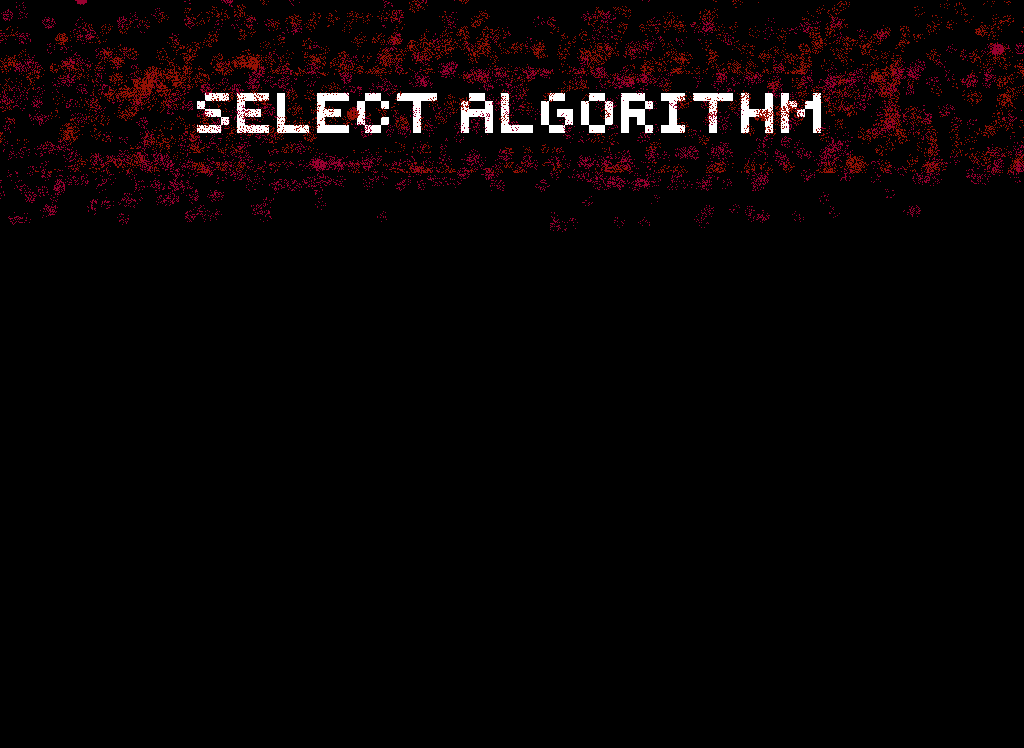
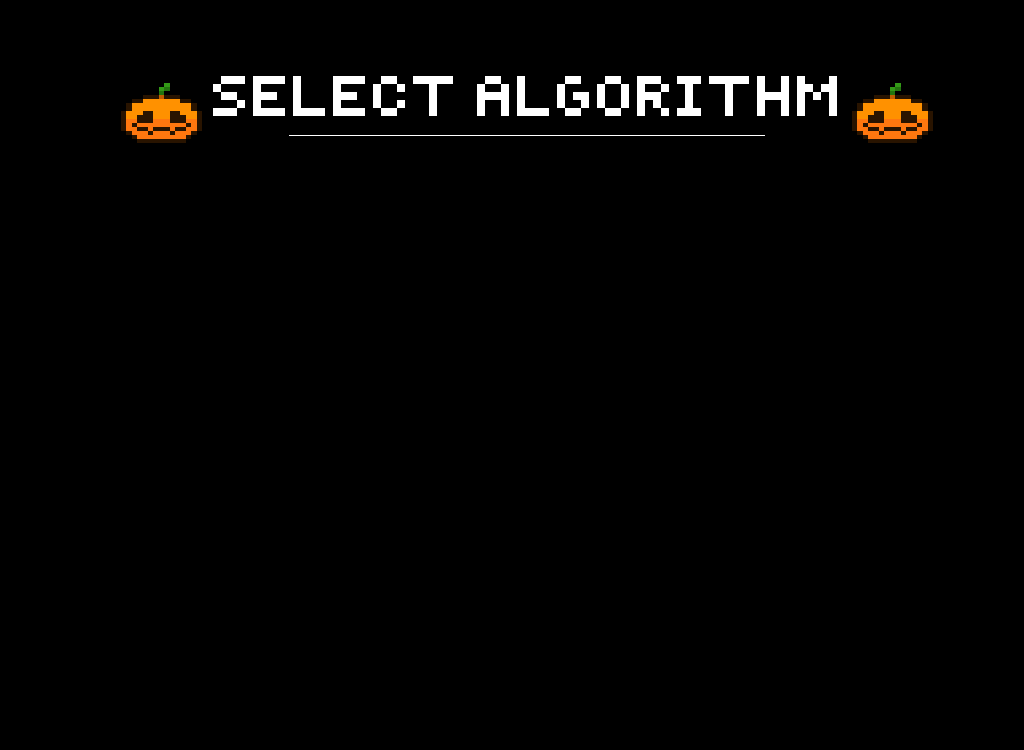
demo UI 3

Changed region(s): [[0.0, 0.0, 1.0, 0.2767], [0.2188, 0.0, 0.25, 0.0307]]

diff --git a/src/UI/maze_static.py b/src/UI/maze_static.py
@@ -34,6 +34,12 @@ def run_static_mode():
     MAZE_WIDTH = COLS * TILE_SIZE
     MAZE_HEIGHT = ROWS * TILE_SIZE
 
+    # Define maze positions
+    LEFT_MAZE_X = 30
+    LEFT_MAZE_Y = 70
+    RIGHT_MAZE_X = LEFT_MAZE_X + MAZE_WIDTH + 100
+    RIGHT_MAZE_Y = 70
+
     # Load images
     try:
         wall_img = pygame.image.load("assets/build_maze/wall.png")
@@ -46,9 +52,10 @@ def run_static_mode():
         monster_img = pygame.transform.scale(monster_img, (PLAYER_SIZE, PLAYER_SIZE))
         resident_img = pygame.image.load("assets/characters/resident.png")
         resident_img = pygame.transform.scale(resident_img, (PLAYER_SIZE, PLAYER_SIZE))
-        # Load background image for algorithm selection screen
-        bg_algorithm = pygame.image.load("assets/bg_algorithm.png")  # Adjust path as needed
-        bg_algorithm = pygame.transform.scale(bg_algorithm, (WIDTH, HEIGHT))  # Scale to fit window
+        bg_maze = pygame.image.load("assets/back_ground/bg_maze_static.png")
+        bg_maze = pygame.transform.scale(bg_maze, (WIDTH, HEIGHT))
+        bg_algorithm = pygame.image.load("assets/back_ground/bg_algorithm.png")
+        bg_algorithm = pygame.transform.scale(bg_algorithm, (WIDTH, HEIGHT))
     except FileNotFoundError as e:
         print(f"Image loading failed: {e}")
         return None
@@ -69,15 +76,18 @@ def run_static_mode():
 
     # Button settings
     try:
-        font = pygame.font.SysFont("arial", 30)
+        # Font for buttons (bold, not italic)
+        button_font = pygame.font.SysFont("arial", 30, bold=True)
+        # Font for titles (italic, not bold)
+        title_font = pygame.font.SysFont("arial", 30, italic=True, bold=True)
     except Exception as e:
         print(f"Font loading failed: {e}")
         return None
 
-    # Main screen buttons (centered)
+    # Main screen buttons (centered below the mazes)
     button_width, button_height = 150, 50
     button_margin = 20
-    button_y = MAZE_HEIGHT + 50
+    button_y = LEFT_MAZE_Y + MAZE_HEIGHT + 50
     total_button_width = 3 * button_width + 2 * button_margin
     start_x = (WIDTH - total_button_width) // 2
     buttons = [
@@ -89,7 +99,7 @@ def run_static_mode():
     # Algorithm selection buttons (centered)
     algo_button_width, algo_button_height = 200, 50
     algo_button_margin = 10
-    algo_y_start = 100
+    algo_y_start = 280
     algorithms = ["BFS", "DFS", "Dijkstra", "Q-Learning"]
     left_algo_x = (WIDTH // 4) - (algo_button_width // 2)
     left_algo_buttons = [
@@ -120,12 +130,12 @@ def run_static_mode():
     MOVE_DELAY = 0.5
     current_mode = "main"
 
-    def draw_maze(maze, offset_x, player_pos, resident_pos, visited_residents, player_img, resident_img):
+    def draw_maze(maze, offset_x, offset_y, player_pos, resident_pos, visited_residents, player_img, resident_img):
         for row in range(ROWS):
             for col in range(COLS):
                 tile = maze[row][col]
                 x = offset_x + col * TILE_SIZE
-                y = row * TILE_SIZE
+                y = offset_y + row * TILE_SIZE
                 if tile == 1:
                     screen.blit(wall_img, (x, y))
                 else:
@@ -134,36 +144,36 @@ def run_static_mode():
         for resident in resident_pos:
             if resident not in visited_residents:
                 px, py = resident[1] * TILE_SIZE - OFFSET, resident[0] * TILE_SIZE - OFFSET
-                screen.blit(resident_img, (offset_x + px, py))
+                screen.blit(resident_img, (offset_x + px, offset_y + py))
 
         px, py = player_pos[1] * TILE_SIZE - OFFSET, player_pos[0] * TILE_SIZE - OFFSET
-        screen.blit(player_img, (offset_x + px, py))
+        screen.blit(player_img, (offset_x + px, offset_y + py))
 
     def draw_buttons(button_list, mouse_pos, side=None):
         for button in button_list:
             is_hovered = button["rect"].collidepoint(mouse_pos)
             if is_hovered:
-                color = (200, 200, 200)
+                color = (255, 200, 100)
             else:
                 if side == "left":
-                    color = (150, 150, 150) if button["text"] == left_algo else (100, 100, 100)
+                    color = (255, 69, 0) if button["text"] == left_algo else (255, 140, 0)
                 elif side == "right":
-                    color = (150, 150, 150) if button["text"] == right_algo else (100, 100, 100)
+                    color = (255, 69, 0) if button["text"] == right_algo else (255, 140, 0)
                 else:
-                    color = (100, 100, 100)
+                    color = (255, 140, 0)
 
-            pygame.draw.rect(screen, color, button["rect"])
-            text_surf = font.render(button["text"], True, (255, 255, 255))
+            pygame.draw.rect(screen, color, button["rect"], border_radius=10)
+            text_surf = button_font.render(button["text"], True, (255, 255, 255))
             text_rect = text_surf.get_rect(center=button["rect"].center)
             screen.blit(text_surf, text_rect)
 
     def draw_algorithm_select():
-        # Display the background image instead of filling with black
-        screen.blit(bg_algorithm, (0, 0))  # Blit the background at the top-left corner (0, 0)
-        title_left = font.render("Left Maze Algorithm", True, (255, 255, 255))
+        screen.blit(bg_algorithm, (0, 0))
+        # Use title_font for rendering titles (italic)
+        title_left = title_font.render("Left Maze Algorithm", True, (255, 255, 255))
         title_left_rect = title_left.get_rect(center=(left_algo_x + algo_button_width // 2, algo_y_start - 40))
         screen.blit(title_left, title_left_rect)
-        title_right = font.render("Right Maze Algorithm", True, (255, 255, 255))
+        title_right = title_font.render("Right Maze Algorithm", True, (255, 255, 255))
         title_right_rect = title_right.get_rect(center=(right_algo_x + algo_button_width // 2, algo_y_start - 40))
         screen.blit(title_right, title_right_rect)
         mouse_pos = pygame.mouse.get_pos()
@@ -193,18 +203,19 @@ def run_static_mode():
     clock = pygame.time.Clock()
     running = True
     while running:
-        screen.fill((0, 0, 0))
         mouse_pos = pygame.mouse.get_pos()
 
         if current_mode == "main":
-            draw_maze(maze_map1, 50, player1_pos, resident1_pos, left_visited_residents, monster_img, resident_img)
-            draw_maze(maze_map2, 50 + MAZE_WIDTH + 50, player2_pos, resident2_pos, right_visited_residents, hero_img, resident_img)
+            screen.blit(bg_maze, (0, 0))
+            draw_maze(maze_map1, LEFT_MAZE_X, LEFT_MAZE_Y, player1_pos, resident1_pos, left_visited_residents, monster_img, resident_img)
+            draw_maze(maze_map2, RIGHT_MAZE_X, RIGHT_MAZE_Y, player2_pos, resident2_pos, right_visited_residents, hero_img, resident_img)
             draw_buttons(buttons, mouse_pos)
         elif current_mode == "algorithm_select":
             draw_algorithm_select()
         elif current_mode == "moving":
-            draw_maze(maze_map1, 50, player1_pos, resident1_pos, left_visited_residents, monster_img, resident_img)
-            draw_maze(maze_map2, 50 + MAZE_WIDTH + 50, player2_pos, resident2_pos, right_visited_residents, hero_img, resident_img)
+            screen.blit(bg_maze, (0, 0))
+            draw_maze(maze_map1, LEFT_MAZE_X, LEFT_MAZE_Y, player1_pos, resident1_pos, left_visited_residents, monster_img, resident_img)
+            draw_maze(maze_map2, RIGHT_MAZE_X, RIGHT_MAZE_Y, player2_pos, resident2_pos, right_visited_residents, hero_img, resident_img)
             draw_buttons(buttons, mouse_pos)
 
             current_time = time.time()
@@ -286,8 +297,6 @@ def run_static_mode():
                             left_finished = False
                             right_finished = False
                             last_move_time = time.time()
-                        else:
-                            print("Please select an algorithm for both mazes")
                     elif cancel_button["rect"].collidepoint(mouse_pos):
                         left_algo = None
                         right_algo = None

diff --git a/src/UI/menu.py b/src/UI/menu.py
@@ -31,16 +31,14 @@ def run_menu():
 
     # Màu sắc
     WHITE = (255, 255, 255)
-    BROWN = (139, 69, 19)
 
     # Font
-    button_font = pygame.font.SysFont("Arial", 36, "ITALIC")
+    button_font = pygame.font.SysFont("Arial", 36, bold=True)  # Change to bold instead of italic
 
     # Nút chế độ
-    # Kích thước và khoảng cách giữa các nút
     button_width = 200
     button_height = 60
-    button_spacing = 30  # khoảng cách giữa các nút
+    button_spacing = 30
 
     # Tính vị trí X sao cho các nút canh giữa màn hình
     center_x = WIDTH // 2 - button_width // 2
@@ -48,33 +46,43 @@ def run_menu():
     # Tính vị trí Y bắt đầu (từ trên xuống)
     start_y = 225
 
-    # Tạo các nút theo hàng dọc
-    dynamic_button = pygame.Rect(center_x, start_y, button_width, button_height)
-    static_button  = pygame.Rect(center_x, start_y + button_height + button_spacing, button_width, button_height)
-    quit_button    = pygame.Rect(center_x, start_y + 2 * (button_height + button_spacing), button_width, button_height)
+    # Tạo danh sách các nút
+    buttons = [
+        {"text": "Dynamic", "rect": pygame.Rect(center_x, start_y, button_width, button_height)},
+        {"text": "Static", "rect": pygame.Rect(center_x, start_y + button_height + button_spacing, button_width, button_height)},
+        {"text": "Quit", "rect": pygame.Rect(center_x, start_y + 2 * (button_height + button_spacing), button_width, button_height)},
+    ]
 
     # Hàm vẽ nút
-    def draw_button(rect, image_path):
-        img = pygame.image.load(image_path).convert_alpha()
-        img = pygame.transform.scale(img, (rect.width, rect.height))
-        screen.blit(img, rect.topleft)
-        
+    def draw_buttons(button_list, mouse_pos):
+        for button in button_list:
+            is_hovered = button["rect"].collidepoint(mouse_pos)
+            if is_hovered:
+                color = (255, 200, 100)  # Lighter orange for hover effect
+            else:
+                color = (255, 140, 0)  # Default orange
+
+            pygame.draw.rect(screen, color, button["rect"], border_radius=20)
+            text_surf = button_font.render(button["text"], True, (WHITE))
+            text_rect = text_surf.get_rect(center=button["rect"].center)
+            screen.blit(text_surf, text_rect)
+
     # Vòng lặp chính
-    current_screen = "menu" # Trạng thái màn hình
+    current_screen = "menu"
     running = True
     while running:
+        mouse_pos = pygame.mouse.get_pos()  # Get mouse position for hover effect
+
         if current_screen == "menu":
             screen.blit(menu_img, (0, 0))
             # Hướng dẫn bấm space
             hint_surface = button_font.render("PRESS SPACE TO START", True, WHITE)
-            hint_rect = hint_surface.get_rect(center=(WIDTH//2, HEIGHT - 50))  # Dịch xuống dưới cùng
+            hint_rect = hint_surface.get_rect(center=(WIDTH//2, HEIGHT - 50))
             screen.blit(hint_surface, hint_rect)
 
         elif current_screen == "mode_select":
             screen.blit(select_mode_img, (0, 0))
-            draw_button(dynamic_button, "assets/buttons/button_dynamic.png")
-            draw_button(static_button, "assets/buttons/button_static.png")
-            draw_button(quit_button, "assets/buttons/button_quit.png")
+            draw_buttons(buttons, mouse_pos)
 
         for event in pygame.event.get():
             if event.type == pygame.QUIT:
@@ -86,15 +94,17 @@ def run_menu():
 
             if event.type == pygame.MOUSEBUTTONDOWN:
                 if current_screen == "mode_select":
-                    if dynamic_button.collidepoint(event.pos):
-                        pygame.mixer.music.stop()
-                        print("hí")
-                        # run_dynamic_mode()
-                    elif static_button.collidepoint(event.pos):
-                        pygame.mixer.music.stop()
-                        run_static_mode()
-                    elif quit_button.collidepoint(event.pos):
-                        pygame.quit()
+                    for button in buttons:
+                        if button["rect"].collidepoint(event.pos):
+                            if button["text"] == "Dynamic":
+                                pygame.mixer.music.stop()
+                                print("hí")
+                                # run_dynamic_mode()
+                            elif button["text"] == "Static":
+                                pygame.mixer.music.stop()
+                                run_static_mode()
+                            elif button["text"] == "Quit":
+                                pygame.quit()
 
         pygame.display.flip()
 
